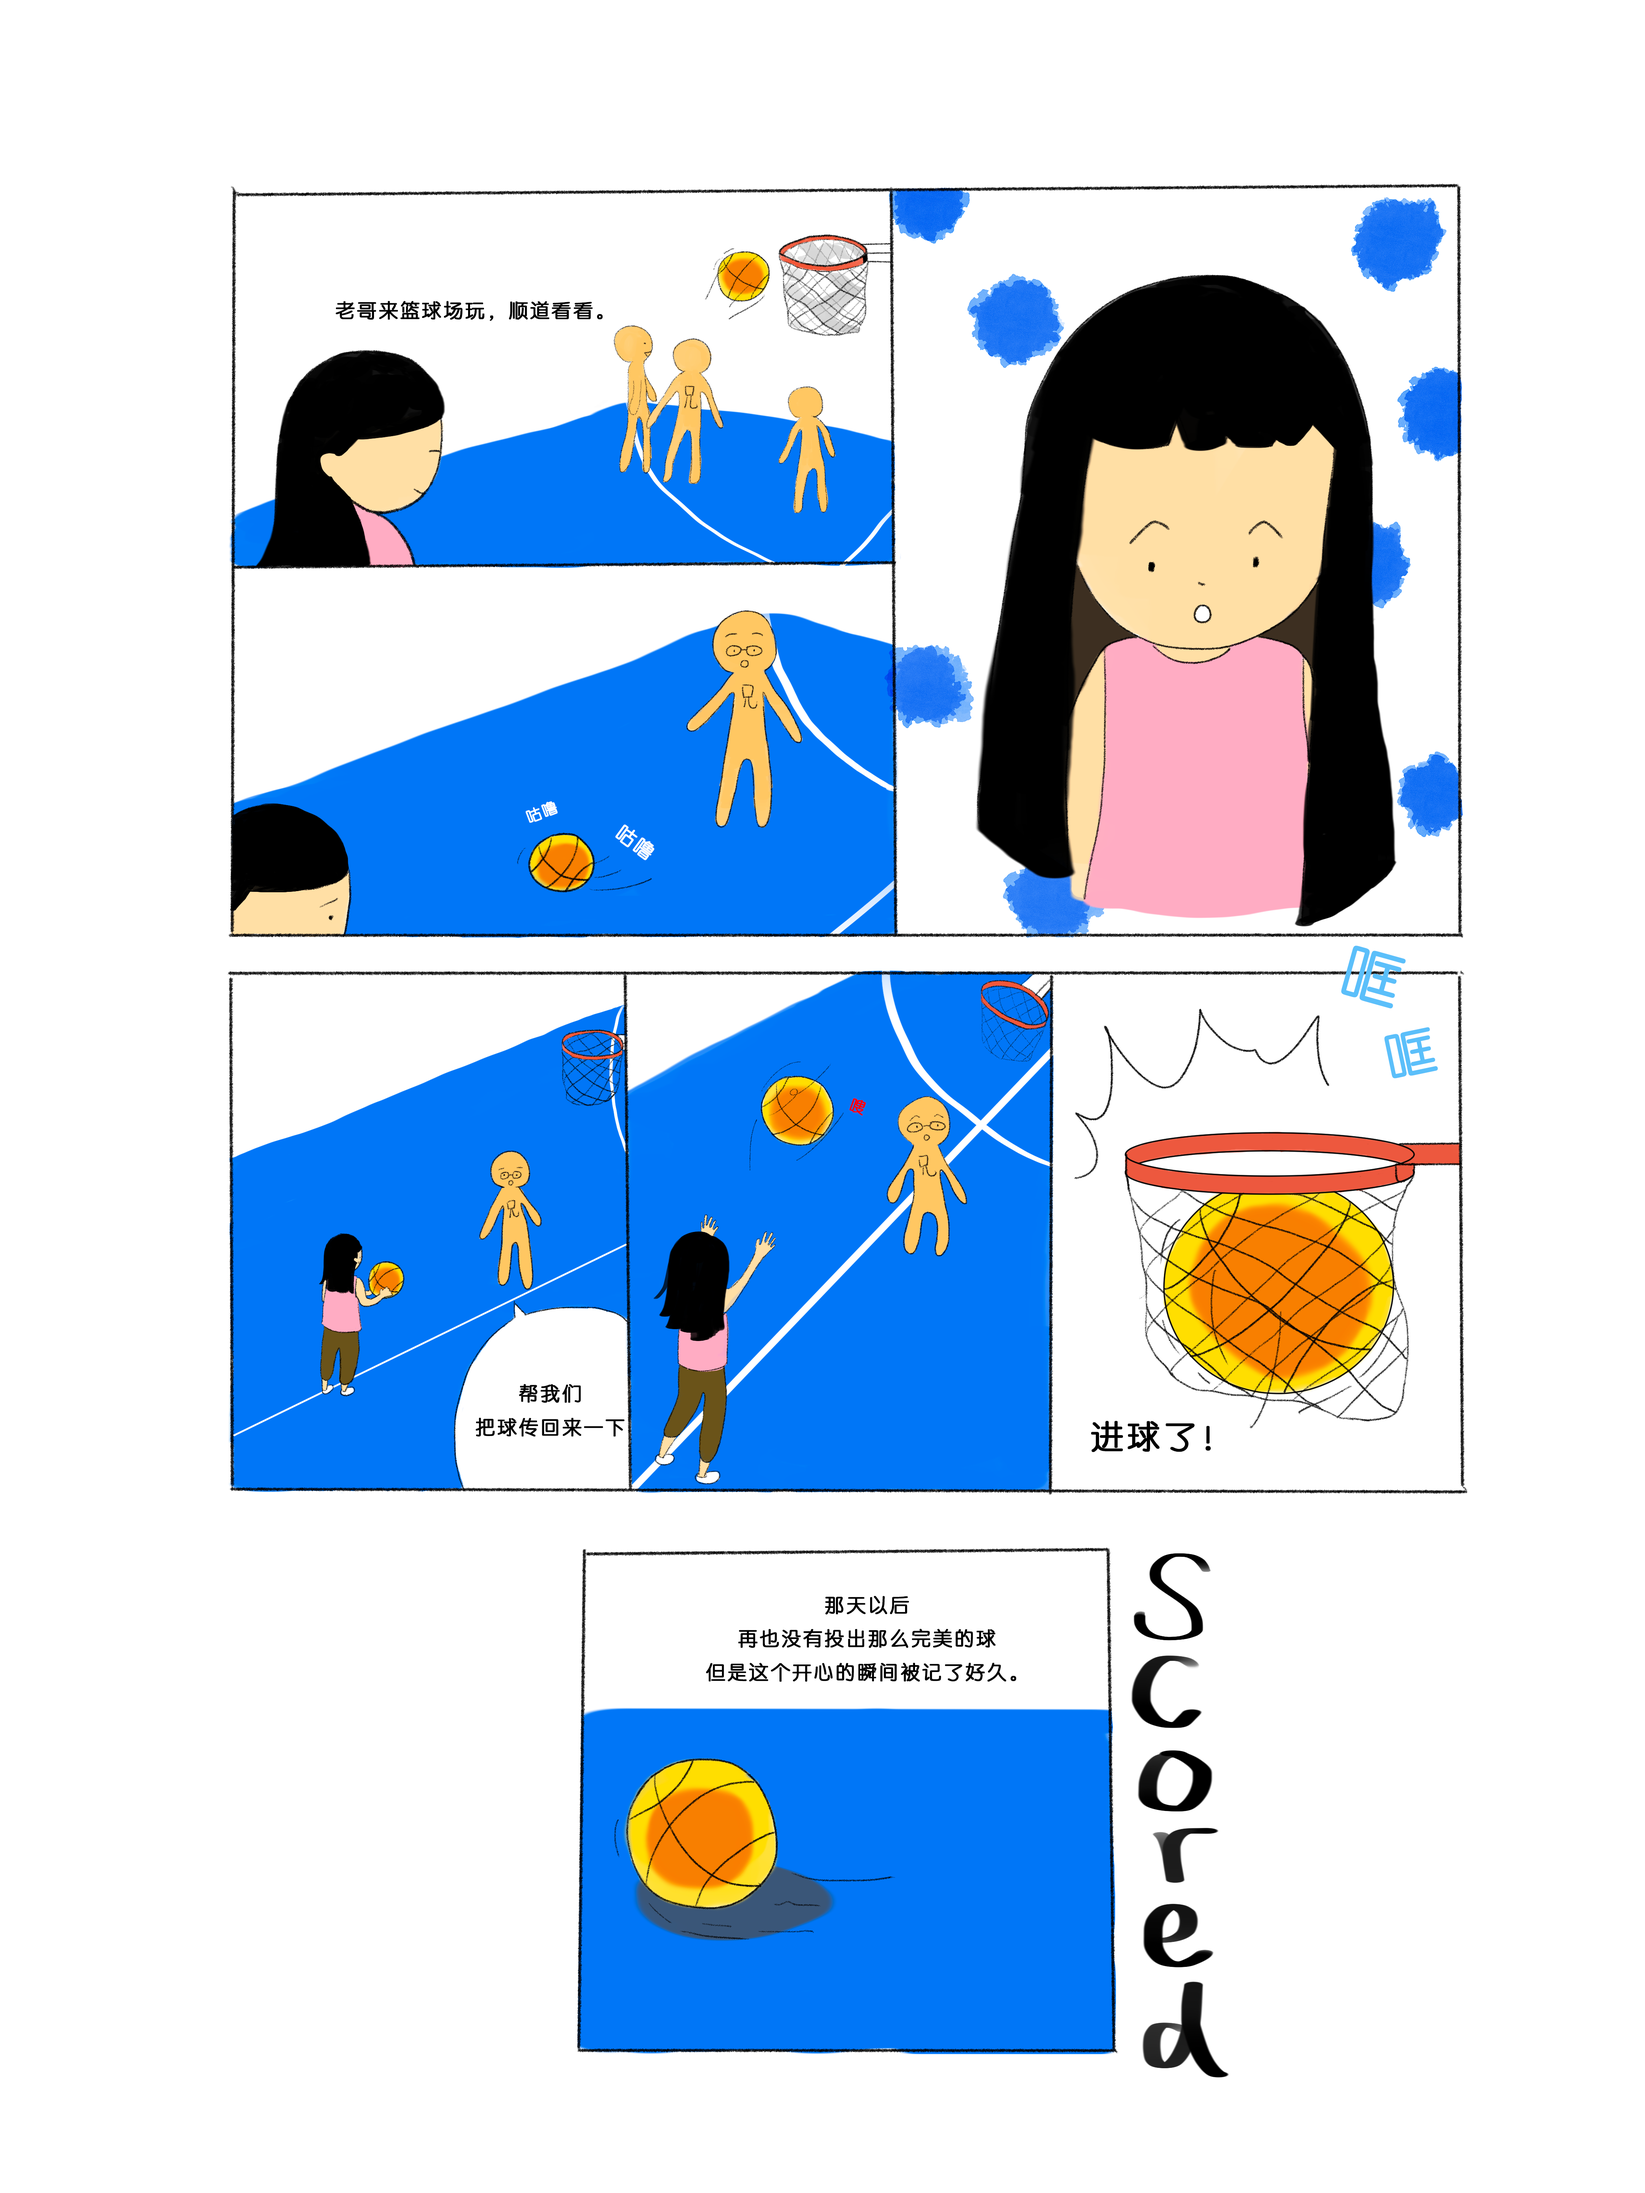
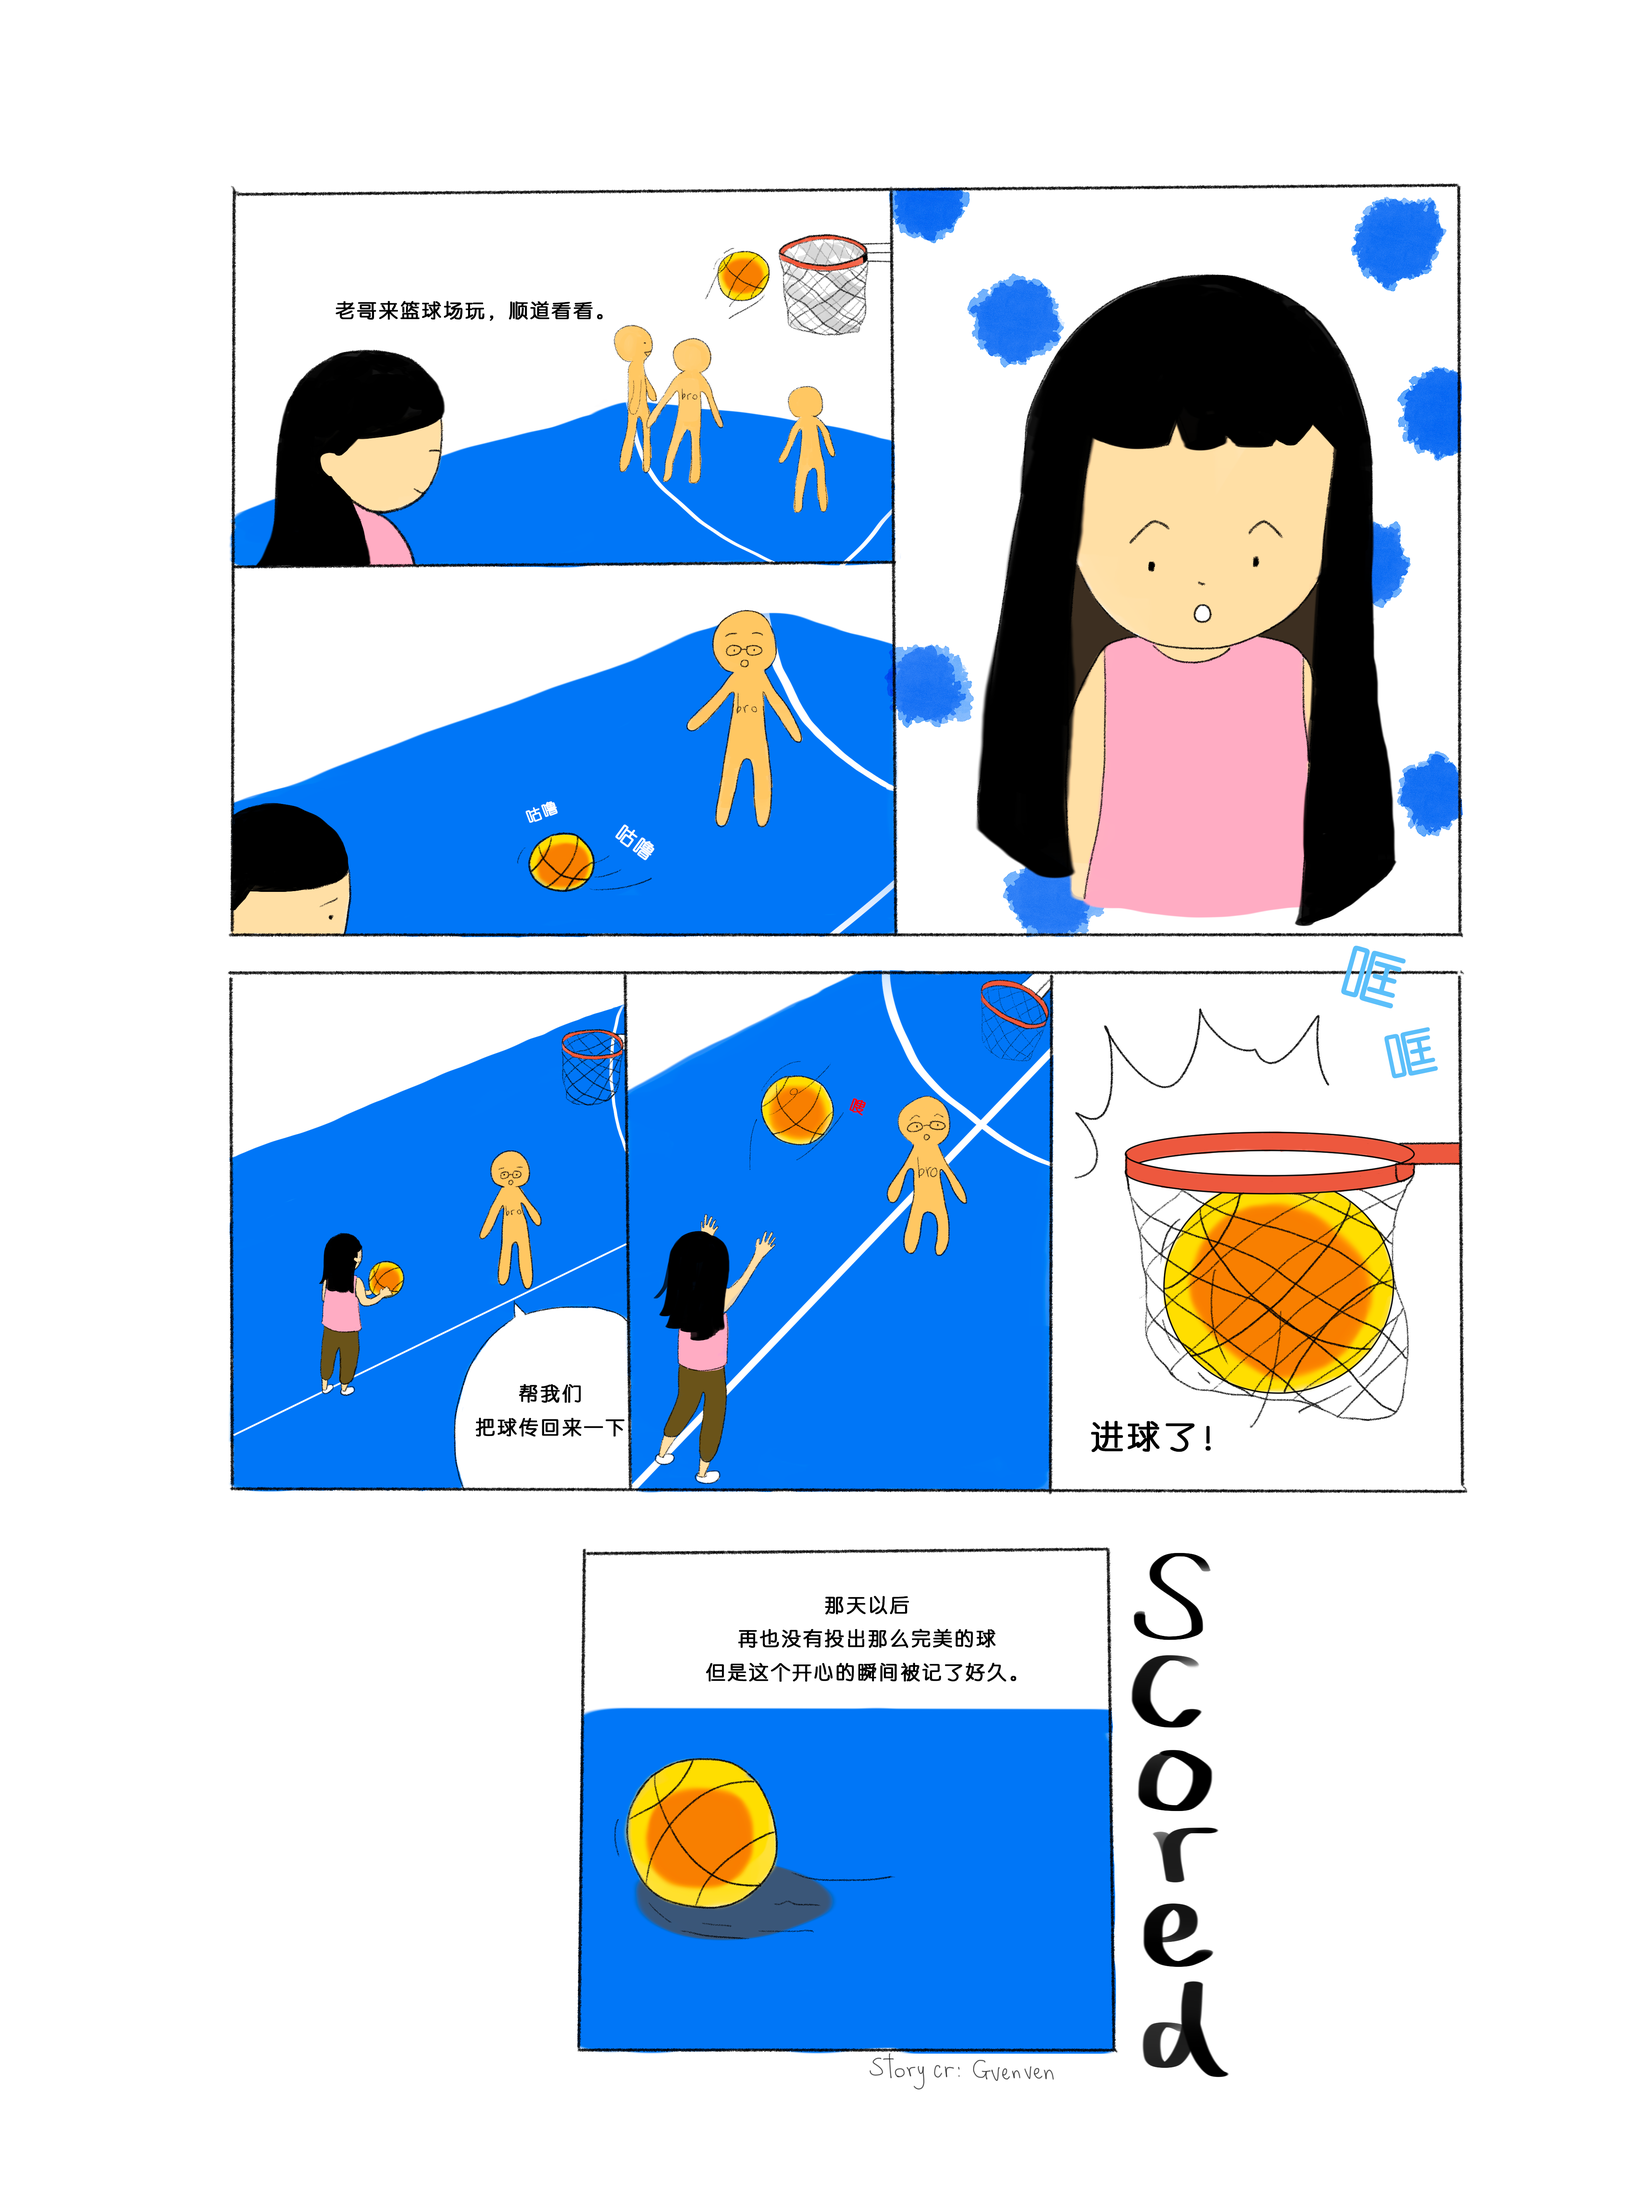
Update website

diff --git a/Qwen_javascript_20260509_3qpkovjr8.js b/Qwen_javascript_20260509_3qpkovjr8.js
@@ -1954,7 +1954,7 @@
           type: 'star',
           opacity: 0,
           createdAt: now + Math.random() * 50, // Slight stagger (0-50ms)
-          lifetime: 1500 + Math.random() * 800, // Live 1.5-2.3 seconds
+          lifetime: 3000 + Math.random() * 2000, // Live 3-5 seconds
           color: color,
           points: 5, // 5-pointed stars
           trailLength: 0, // For motion trail effect
@@ -2188,7 +2188,7 @@
           type: 'ripple',
           opacity: 0, // Start invisible
           createdAt: now + Math.random() * 200, // Slight random delay (0-200ms) for natural appearance
-          lifetime: 3000 + Math.random() * 1000, // Live for 3-4 seconds with variation
+          lifetime: 5000 + Math.random() * 2000, // Live for 5-7 seconds with variation
           color: color,
           originalX: startX, // Remember original position
           originalY: startY,

diff --git a/ladybug-details.html b/ladybug-details.html
@@ -68,6 +68,7 @@
     display: flex;
     align-items: center;
     gap: 14px;
+    cursor: pointer;
   }
 
   #logo-container {
@@ -978,6 +979,9 @@
         <div class="gallery-item">
           <img src="_4.png" alt="图片4">
         </div>
+        <div class="gallery-item">
+          <img src="_5.png" alt="图片5">
+        </div>
       </div>
 
       <a href="index.html" class="btn-home" title="Back to Home">
@@ -1088,6 +1092,10 @@
         logoImages.forEach(img => img.classList.remove('active'));
         currentImageIndex = 0;
       }
+    });
+
+    logoArea.addEventListener('click', function() {
+      window.location.href = 'index.html';
     });
     
     // Contact/Profile modal functionality
